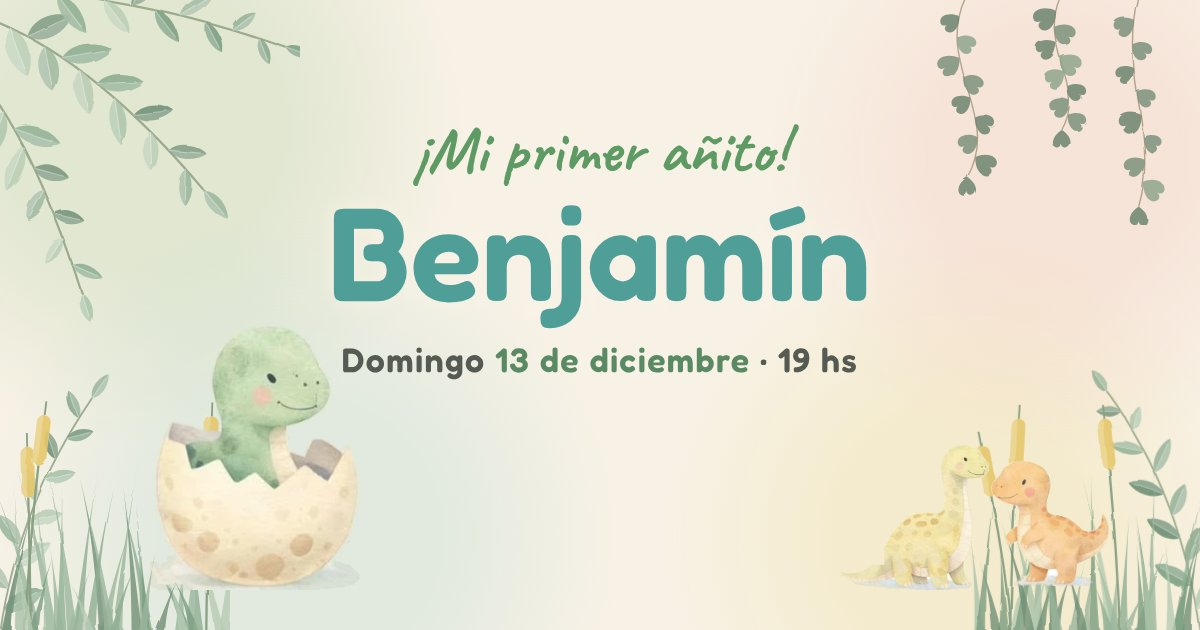
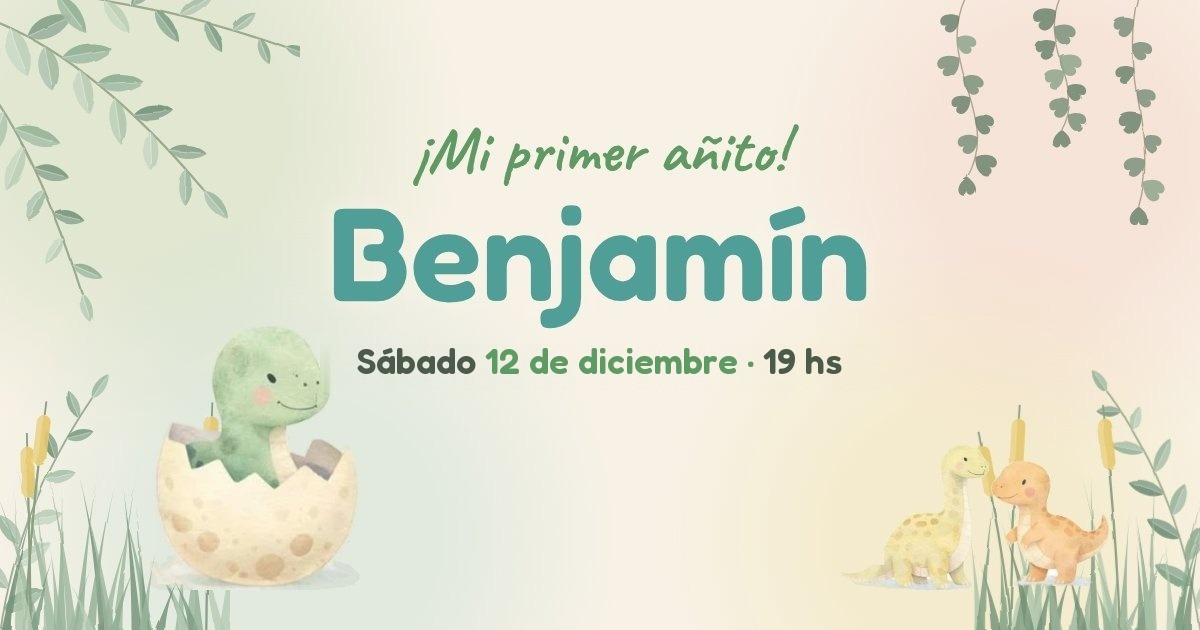
Cambio de fecha a sabado 12 de diciembre

Changed region(s): [[0.2775, 0.5429, 0.7092, 0.6032]]

diff --git a/fuente/template.html b/fuente/template.html
@@ -4,11 +4,11 @@
 <meta charset="utf-8">
 <meta name="viewport" content="width=device-width, initial-scale=1, viewport-fit=cover">
 <title>Mi primer añito · Benjamín</title>
-<meta name="description" content="¡Un año de pura alegría y momentos mágicos! Vení a festejar el 1° añito de Benjamín con nosotros. Domingo 13 de diciembre, 19 a 22 hs.">
+<meta name="description" content="¡Un año de pura alegría y momentos mágicos! Vení a festejar el 1° añito de Benjamín con nosotros. Sábado 12 de diciembre, 19 a 22 hs.">
 <meta property="og:type" content="website">
 <meta property="og:url" content="https://benjamin-1anito.netlify.app/">
 <meta property="og:title" content="¡Mi primer añito! · Benjamín 🦕">
-<meta property="og:description" content="Domingo 13 de diciembre · 19 a 22 hs · Salón Mangiare, Balcarce 322, Villa Mercedes. ¡Te esperamos!">
+<meta property="og:description" content="Sábado 12 de diciembre · 19 a 22 hs · Salón Mangiare, Balcarce 322, Villa Mercedes. ¡Te esperamos!">
 <meta property="og:image" content="https://benjamin-1anito.netlify.app/preview.jpg">
 <meta property="og:image:type" content="image/jpeg">
 <meta property="og:image:width" content="1200">
@@ -204,8 +204,8 @@ h1{font-family:'Fredoka';font-weight:600;font-size:clamp(46px,14vw,62px);color:#
     <p class="phrase rv" style="--i:1">¡Un año de pura alegría y momentos mágicos! Vení a festejar el <strong>1° añito de Benjamín</strong> con nosotros.</p>
 
     <div class="date rv" style="--i:2">
-      <div class="side">Domingo</div>
-      <div class="day">13</div>
+      <div class="side">Sábado</div>
+      <div class="day">12</div>
       <div class="side">Diciembre</div>
       <span></span>
       <div class="year">2026</div>
@@ -259,7 +259,7 @@ h1{font-family:'Fredoka';font-weight:600;font-size:clamp(46px,14vw,62px);color:#
 <script>
 (function(){
   // ---- WhatsApp ----
-  var MSG = "¡Hola! 🦕 Confirmo mi asistencia al 1° añito de Benjamín, el domingo 13 de diciembre a las 19 hs. ¡Allí estaremos!";
+  var MSG = "¡Hola! 🦕 Confirmo mi asistencia al 1° añito de Benjamín, el sábado 12 de diciembre a las 19 hs. ¡Allí estaremos!";
   var NUM_MAMA = "5492657505668";
   var NUM_PAPA = "5492334484988";
   document.getElementById('waMama').href = "https://wa.me/" + NUM_MAMA + "?text=" + encodeURIComponent(MSG);
@@ -320,7 +320,7 @@ h1{font-family:'Fredoka';font-weight:600;font-size:clamp(46px,14vw,62px);color:#
   window.addEventListener('popstate', function(){ if (!confirmPanel.hidden) showDetails(); });
 
   // ---- Cuenta regresiva ----
-  var target = new Date('2026-12-13T19:00:00-03:00').getTime();
+  var target = new Date('2026-12-12T19:00:00-03:00').getTime();
   function pad(n){ return n<10 ? '0'+n : n; }
   function tick(){
     var d = target - Date.now();

diff --git a/index.html b/index.html
@@ -4,11 +4,11 @@
 <meta charset="utf-8">
 <meta name="viewport" content="width=device-width, initial-scale=1, viewport-fit=cover">
 <title>Mi primer añito · Benjamín</title>
-<meta name="description" content="¡Un año de pura alegría y momentos mágicos! Vení a festejar el 1° añito de Benjamín con nosotros. Domingo 13 de diciembre, 19 a 22 hs.">
+<meta name="description" content="¡Un año de pura alegría y momentos mágicos! Vení a festejar el 1° añito de Benjamín con nosotros. Sábado 12 de diciembre, 19 a 22 hs.">
 <meta property="og:type" content="website">
 <meta property="og:url" content="https://benjamin-1anito.netlify.app/">
 <meta property="og:title" content="¡Mi primer añito! · Benjamín 🦕">
-<meta property="og:description" content="Domingo 13 de diciembre · 19 a 22 hs · Salón Mangiare, Balcarce 322, Villa Mercedes. ¡Te esperamos!">
+<meta property="og:description" content="Sábado 12 de diciembre · 19 a 22 hs · Salón Mangiare, Balcarce 322, Villa Mercedes. ¡Te esperamos!">
 <meta property="og:image" content="https://benjamin-1anito.netlify.app/preview.jpg">
 <meta property="og:image:type" content="image/jpeg">
 <meta property="og:image:width" content="1200">
@@ -204,8 +204,8 @@ h1{font-family:'Fredoka';font-weight:600;font-size:clamp(46px,14vw,62px);color:#
     <p class="phrase rv" style="--i:1">¡Un año de pura alegría y momentos mágicos! Vení a festejar el <strong>1° añito de Benjamín</strong> con nosotros.</p>
 
     <div class="date rv" style="--i:2">
-      <div class="side">Domingo</div>
-      <div class="day">13</div>
+      <div class="side">Sábado</div>
+      <div class="day">12</div>
       <div class="side">Diciembre</div>
       <span></span>
       <div class="year">2026</div>
@@ -259,7 +259,7 @@ h1{font-family:'Fredoka';font-weight:600;font-size:clamp(46px,14vw,62px);color:#
 <script>
 (function(){
   // ---- WhatsApp ----
-  var MSG = "¡Hola! 🦕 Confirmo mi asistencia al 1° añito de Benjamín, el domingo 13 de diciembre a las 19 hs. ¡Allí estaremos!";
+  var MSG = "¡Hola! 🦕 Confirmo mi asistencia al 1° añito de Benjamín, el sábado 12 de diciembre a las 19 hs. ¡Allí estaremos!";
   var NUM_MAMA = "5492657505668";
   var NUM_PAPA = "5492334484988";
   document.getElementById('waMama').href = "https://wa.me/" + NUM_MAMA + "?text=" + encodeURIComponent(MSG);
@@ -320,7 +320,7 @@ h1{font-family:'Fredoka';font-weight:600;font-size:clamp(46px,14vw,62px);color:#
   window.addEventListener('popstate', function(){ if (!confirmPanel.hidden) showDetails(); });
 
   // ---- Cuenta regresiva ----
-  var target = new Date('2026-12-13T19:00:00-03:00').getTime();
+  var target = new Date('2026-12-12T19:00:00-03:00').getTime();
   function pad(n){ return n<10 ? '0'+n : n; }
   function tick(){
     var d = target - Date.now();
